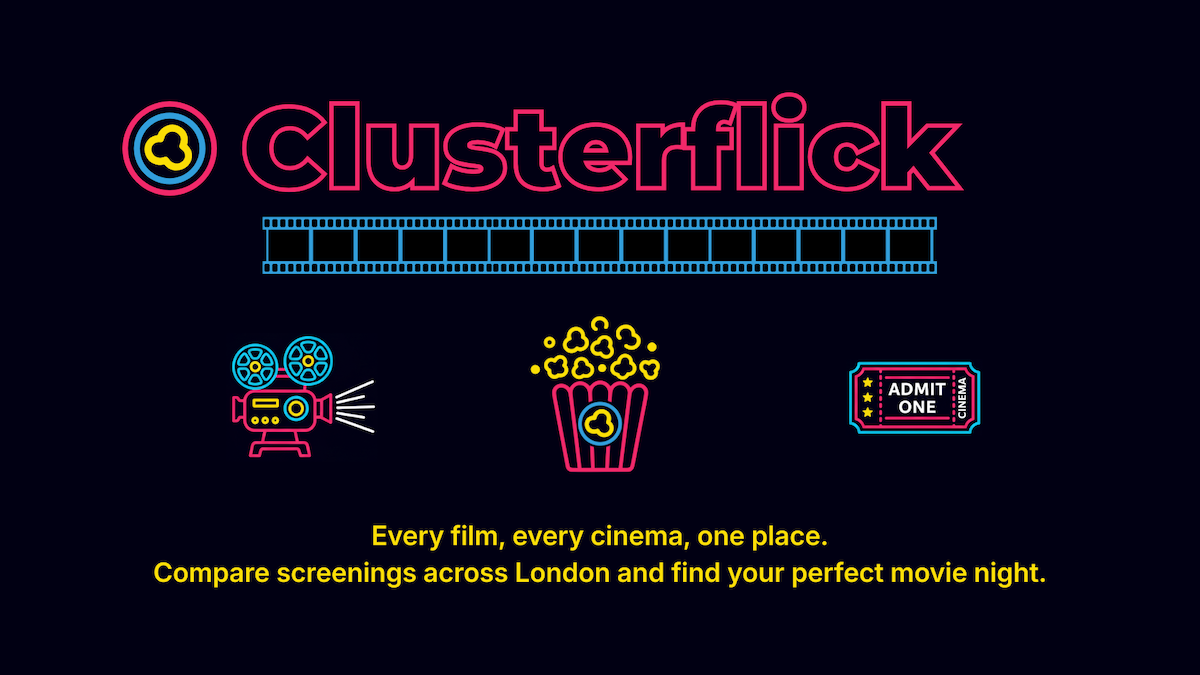
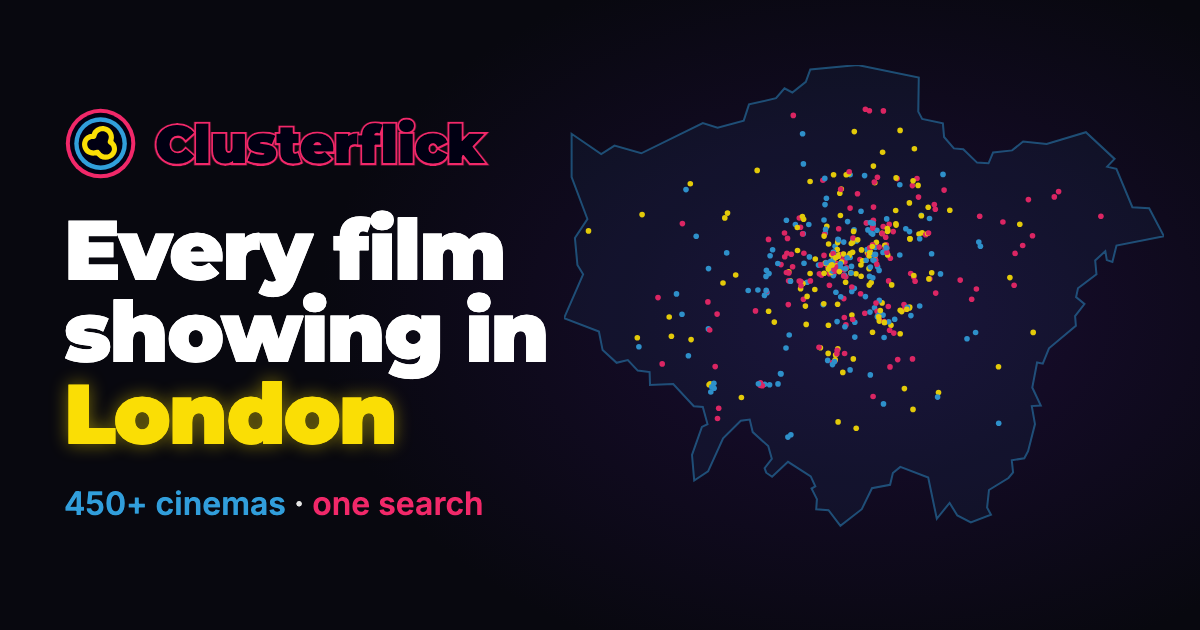
Redesign the social share image
A London map with every venue plotted beside a large headline, so the
image still reads at link-preview size. Resized from 1200×675 to
1200×630, the size Facebook, LinkedIn and Slack expect, and the
metadata declaring its dimensions updated to match.

diff --git a/src/app/layout.tsx b/src/app/layout.tsx
@@ -51,7 +51,7 @@ export const metadata: Metadata = {
       {
         url: "/images/og-image.png",
         width: 1200,
-        height: 675,
+        height: 630,
         alt: "Clusterflick",
       },
     ],

diff --git a/src/app/cinema-groups/[slug]/page.tsx b/src/app/cinema-groups/[slug]/page.tsx
@@ -60,7 +60,7 @@ export async function generateMetadata({
     : {
         url: "/images/og-image.png",
         width: 1200,
-        height: 675,
+        height: 630,
         alt: "Clusterflick",
       };
 

diff --git a/src/app/london-cinemas/[borough]/page.tsx b/src/app/london-cinemas/[borough]/page.tsx
@@ -69,7 +69,7 @@ export async function generateMetadata({
     : {
         url: "/images/og-image.png",
         width: 1200,
-        height: 675,
+        height: 630,
         alt: "Clusterflick",
       };
 

diff --git a/src/app/venues/[slug]/page.tsx b/src/app/venues/[slug]/page.tsx
@@ -134,7 +134,7 @@ export async function generateMetadata({
   const fallbackOgImage = {
     url: "/images/og-image.png",
     width: 1200,
-    height: 675,
+    height: 630,
     alt: "Clusterflick",
   };
 
